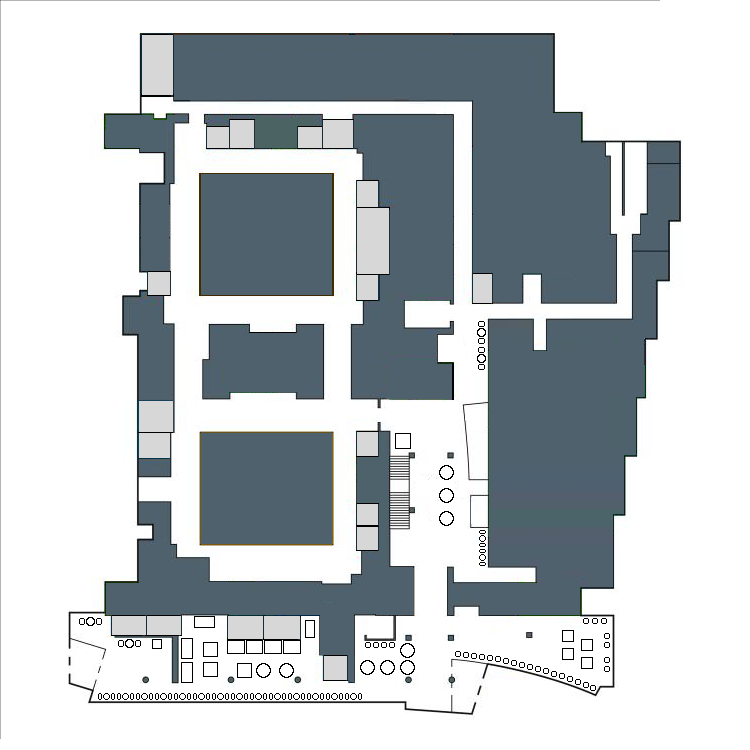
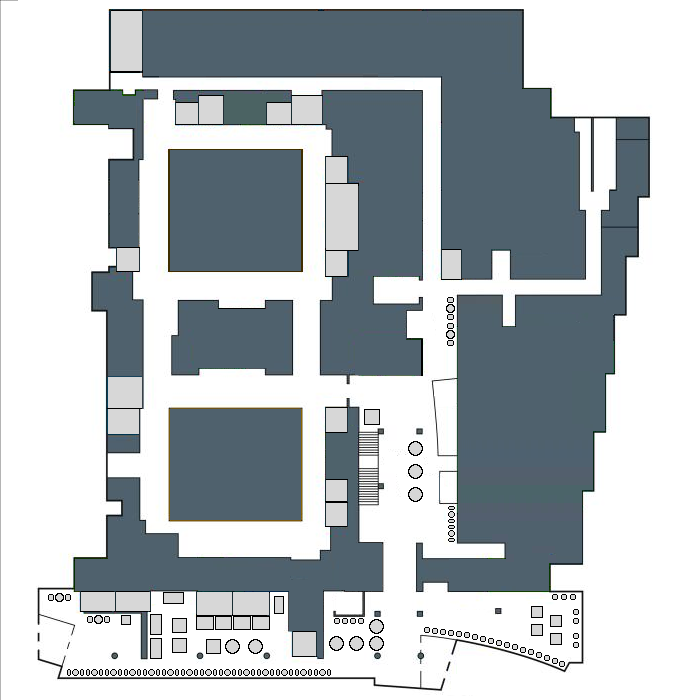
Started creating Java GUI
Finished making the first floor of the Fenwick Map and started working with the Java files to have the image of fenwick library displayed

Changed region(s): [[0.03, 0.0, 0.93, 0.99]]

diff --git a/FLOSSDriver.java b/FLOSSDriver.java
@@ -1,0 +1,55 @@
+/*
+   FLOSSDriver.java
+   CS 321 - Section 001: Team 7
+   John DeCarlo, Huiying Jin, John Radecki, Joshua Yuen
+   ----------------------------------------------------
+   Description: This is the executable driver for our software
+*/
+
+import java.io.*;
+import java.net.*;
+import java.awt.*;
+import java.awt.event.*;
+import javax.swing.*;
+
+public class FLOSSDriver {
+
+   public static StudySystemMap fenwickLibrary;
+   public static JButton floor1;
+   public static JButton floor2;
+   public static JButton floor3;
+   public static JButton search;
+   public static JButton profile;
+   
+   public static void main(String[]args) throws IOException {
+      JFrame display = new JFrame("FLOSS");     //Create our JFrame
+      fenwickLibrary = new StudySystemMap();    //Initialize the shot fenwick library map
+      displayButtons();                         //Add display option buttons
+      display.setSize(1000, 850);			      //Size of display window
+      display.setLocation(300, 0);				   //Location of display window on the screen
+      display.setResizable(false);              //Cannot change size of the screen
+      display.setDefaultCloseOperation(JFrame.EXIT_ON_CLOSE);  //Exit when close out 
+      display.setContentPane(fenwickLibrary);                    //Set contentPanel to our board
+      display.setVisible(true);                                //Make the screen visible
+   }
+   
+   public static void displayButtons()
+   {
+      fenwickLibrary.setLayout(null);
+      JButton floor1 = new JButton("1st Floor");
+      JButton floor2 = new JButton("2nd Floor");
+      JButton floor3 = new JButton("3rd Floor");
+      JButton search = new JButton("Search");
+      JButton profile = new JButton("My Profile");
+      floor1.setBounds(0, 700, 140, 100);
+      floor2.setBounds(140, 700, 140, 100);
+      floor3.setBounds(280, 700, 140, 100);
+      search.setBounds(420, 700, 140, 100);
+      profile.setBounds(560, 700, 140, 100);
+      fenwickLibrary.add(floor1);
+      fenwickLibrary.add(floor2);
+      fenwickLibrary.add(floor3);
+      fenwickLibrary.add(search);
+      fenwickLibrary.add(profile); 
+   }
+}

diff --git a/StudySystemMap.java b/StudySystemMap.java
@@ -1,0 +1,33 @@
+/*
+   FLOSSDriver.java
+   CS 321 - Section 001: Team 7
+   John DeCarlo, Huiying Jin, John Radecki, Joshua Yuen
+   ----------------------------------------------------
+   Description: This is the executable driver for our software
+*/
+
+import javax.swing.JPanel;
+import javax.swing.ImageIcon;
+import java.awt.Graphics;
+import java.awt.Color;
+import java.util.*;
+import java.io.*;
+
+public class StudySystemMap extends JPanel {
+
+   private ImageIcon floor1 = new ImageIcon("Fenwick_Library_Maps/Floor1.png");
+
+   public StudySystemMap() {
+   
+   }
+   
+   public void paintComponent(Graphics g) {
+      g.setColor(Color.red);     //Set the background color to no pieces as red
+      super.paintComponent(g); 	//Call super method
+      paintBoard(g);
+   }
+   
+   public void paintBoard(Graphics g) {
+      g.drawImage(floor1.getImage(), 0, 0, 700, 700, null);
+   }
+}

diff --git a/FLOSSServer.java b/FLOSSServer.java
@@ -17,7 +17,6 @@ public class FLOSSServer extends JFrame {
       ServerSocket server = new ServerSocket(4999);
       Socket socket = server.accept();
       System.out.println("Connected");
+
    }
 }
-
-//https://www.google.com/search?q=java+creating+a+server&rlz=1C1CHBF_enUS812US812&oq=java+creating+a+server&aqs=chrome..69i57j0l5.2761j0j7&sourceid=chrome&ie=UTF-8#kpvalbx=_74hxXb3BOu6H_QaX9IfgAw9
